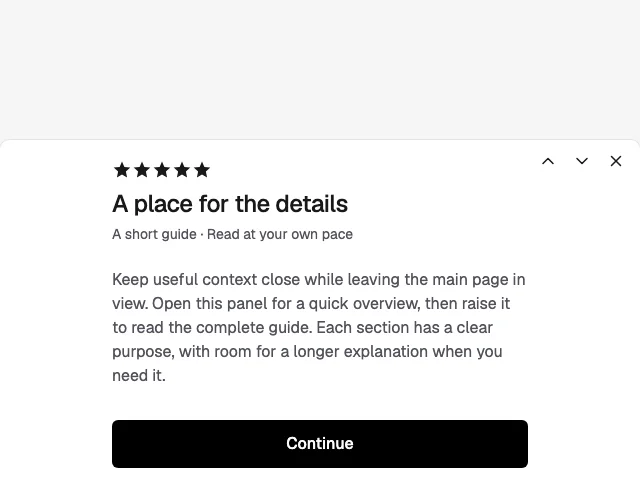
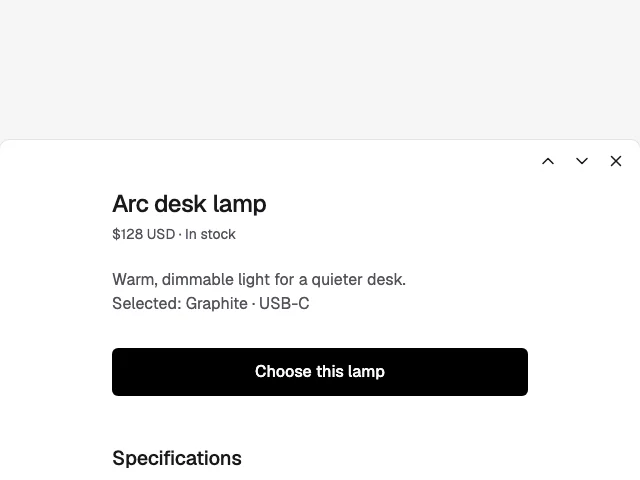
Refine Snap Drawer product quick view and action focus

diff --git a/components/snap-drawer/src/core/index.test.ts b/components/snap-drawer/src/core/index.test.ts
@@ -17,6 +17,18 @@ describe('Snap Drawer settings and geometry', () => {
     expect(markup).toContain('disabled aria-haspopup="dialog"'); expect(markup).toContain('<article'); expect(markup).not.toContain('aria-modal');
     expect(markup).toContain('href="/go?a=1&amp;b=2"');
   });
+  it('keeps optional social content opt-in and the product details readable without enhancement', () => {
+    const host = document.createElement('div'); host.innerHTML = render(resolveSettings({}));
+    expect(host.querySelector('.sd-rating')).toBeNull(); expect(host.querySelector('.sd-quote')).toBeNull();
+    expect(host.querySelector('h2')?.textContent).toBe('Arc desk lamp');
+    expect(host.querySelector('.sd-metadata')?.textContent).toBe('$128 USD · In stock');
+    expect([...host.querySelectorAll('.sd-group h3')].map(node => node.textContent)).toEqual(['Specifications', 'Delivery & returns']);
+    expect(host.querySelector('.sd-action')?.tagName).toBe('BUTTON');
+    host.innerHTML = render(resolveSettings({ showRating: true, rating: 3, showQuote: true, quote: '<Optional note>', quoteAttribution: 'Your attribution' }));
+    expect(host.querySelector('.sd-rating')?.getAttribute('aria-label')).toBe('3 out of 5 stars');
+    expect(host.querySelector('.sd-quote blockquote')?.textContent).toBe('<Optional note>');
+    expect(host.querySelector('.sd-quote figcaption')?.textContent).toBe('Your attribution');
+  });
   it('preserves viewport anchor semantics at desktop, phone and tablet viewport heights', () => {
     for (const height of [1000, 844, 1024, 1112]) {
       const geometry = resolveSnapGeometry(resolveSettings({}), height);
@@ -71,7 +83,10 @@ describe('Snap Drawer lifecycle', () => {
     const scroll = document.querySelector<HTMLElement>('.sd-modal .sd-scroll')!; scroll.scrollTop = 40;
     controller.update({ duration: 0, contentWidth: 560 });
     expect(document.querySelector('.sd-modal .sd-action')).toBe(action); expect(scroll.scrollTop).toBe(40);
-    document.getElementById('one')!.addEventListener('snap-drawer:action', event => event.preventDefault(), { once: true });
+    document.getElementById('one')!.addEventListener('snap-drawer:action', event => {
+      expect((event as CustomEvent).detail.settings).toMatchObject({ title: 'Arc desk lamp', actionLabel: 'Choose this lamp', actionHref: '' });
+      event.preventDefault();
+    }, { once: true });
     action.click(); expect(document.querySelector('dialog')!.open).toBe(true);
     action.click(); expect(document.querySelector('dialog')!.open).toBe(false);
   });
@@ -114,11 +129,28 @@ describe('Snap Drawer lifecycle', () => {
     pointer(scroll, 'pointerdown', 90, 700); scroll.focus(); pointer(window, 'pointermove', 810, 750); pointer(window, 'pointerup', 810, 755);
     expect(modal.open).toBe(false);
   });
+  it.each(['', '#selected'])('keeps a visible middle action stable and keyboard reachable (%s)', actionHref => {
+    const controller = create(); controller.update({ duration: 0, actionHref }); controller.open();
+    const modal = document.querySelector<HTMLDialogElement>('.sd-modal')!, scroll = modal.querySelector<HTMLElement>('.sd-scroll')!;
+    const action = modal.querySelector<HTMLElement>('.sd-action')!, close = modal.querySelector<HTMLButtonElement>('[data-sd-control="close"]')!;
+    const box = (top: number, bottom: number) => ({ top, bottom, left: 20, right: 420, width: 400, height: bottom - top, x: 20, y: top, toJSON() { return {}; } });
+    vi.spyOn(scroll, 'getBoundingClientRect').mockReturnValue(box(676, 1645));
+    for (const node of modal.querySelectorAll<HTMLElement>('.sd-controls button')) vi.spyOn(node, 'getBoundingClientRect').mockReturnValue(box(680, 712));
+    vi.spyOn(action, 'getBoundingClientRect').mockReturnValue(box(884, 932));
+    const reveal = vi.fn(); Object.defineProperty(action, 'scrollIntoView', { configurable: true, value: reveal });
+    controller.snapTo(1); expect(action.tabIndex).toBe(0);
+    close.focus(); modal.dispatchEvent(new KeyboardEvent('keydown', { key: 'Tab', bubbles: true, cancelable: true }));
+    expect(document.activeElement).toBe(action); expect(modal.dataset.snap).toBe('1'); expect(reveal).not.toHaveBeenCalled();
+    // A native pointer may focus the control before an in-flight tab-stop refresh.
+    close.focus(); action.tabIndex = -1; action.focus();
+    expect(modal.dataset.snap).toBe('1'); expect(reveal).not.toHaveBeenCalled();
+    if (!actionHref) { const selected = vi.fn(); document.getElementById('one')!.addEventListener('snap-drawer:action', selected); action.click(); expect(selected).toHaveBeenCalledTimes(1); expect(modal.open).toBe(false); }
+  });
   it('still reveals an offscreen focused child control from a partial snap', () => {
     const controller = create(); controller.open();
     const action = document.querySelector<HTMLButtonElement>('.sd-modal .sd-action')!;
     const reveal = vi.fn(); Object.defineProperty(action, 'scrollIntoView', { configurable: true, value: reveal });
-    action.focus();
+    expect(action.tabIndex).toBe(-1); action.focus();
     expect(document.querySelector<HTMLElement>('.sd-modal')!.dataset.snap).toBe('2'); expect(document.activeElement).toBe(action); expect(reveal).toHaveBeenCalledWith({ block: 'nearest' });
   });
   it('fits the reading viewport to custom highest snaps and clamped coincident positions', () => {

diff --git a/components/snap-drawer/src/core/index.ts b/components/snap-drawer/src/core/index.ts
@@ -251,7 +251,7 @@ export function mount(host: HTMLElement, input: unknown = {}, id?: string): Cont
     closing = false; index = clamp(reachable, 0, geometry.positions.length - 1); controls(true);
     const targetOpacity = settings.overlayMode === 'constant' || index === geometry.positions.length - 1 ? 1 : 0;
     state('settling');
-    const done = () => { state(paused ? 'paused' : 'resting'); emit('snap-change', { index: geometry.reachableToSource[index], reachableIndex: index }); };
+    const done = () => { refreshContentTabStops(); state(paused ? 'paused' : 'resting'); emit('snap-change', { index: geometry.reachableToSource[index], reachableIndex: index }); };
     if (animateMotion) animate(geometry.positions[index], targetOpacity, done);
     else { cancelTransition(false); paint(geometry.positions[index], targetOpacity); done(); }
   }
@@ -271,7 +271,7 @@ export function mount(host: HTMLElement, input: unknown = {}, id?: string): Cont
     controls(); closeButton.focus({ preventScroll: true }); modal.scrollTop = 0; state('opening');
     emit('open-change', { open: true });
     const targetOpacity = settings.overlayMode === 'constant' || index === geometry.positions.length - 1 ? 1 : 0;
-    animate(geometry.positions[index], targetOpacity, () => { state(paused ? 'paused' : 'resting'); });
+    animate(geometry.positions[index], targetOpacity, () => { refreshContentTabStops(); state(paused ? 'paused' : 'resting'); });
   }
   function close() {
     if (!opened || destroyed || closing) return;
@@ -317,9 +317,23 @@ export function mount(host: HTMLElement, input: unknown = {}, id?: string): Cont
       if (target === 'closed') close(); else snap(target);
     } else cancelGesture();
   }
-  function visibleFocusable() {
+  function contentVisible(node: HTMLElement) {
+    const box = node.getBoundingClientRect(), clip = scroll.getBoundingClientRect();
     const top = view.visualViewport?.offsetTop ?? 0, bottom = top + (view.visualViewport?.height ?? view.innerHeight);
-    return [...modal.querySelectorAll<HTMLElement>('button:not(:disabled),a[href],.sd-scroll[tabindex="0"]')].filter(node => { const box = node.getBoundingClientRect(); return node.tabIndex >= 0 && box.height > 0 && box.top >= top && box.bottom <= bottom + 1; });
+    return box.width > 0 && box.height > 0 && box.top >= Math.max(top, clip.top)
+      && box.bottom <= Math.min(bottom, clip.bottom) + 1
+      && box.left >= Math.max(0, clip.left) && box.right <= Math.min(view.innerWidth, clip.right) + 1;
+  }
+  function refreshContentTabStops() {
+    scroll.querySelectorAll<HTMLElement>('a,button').forEach(node => { node.tabIndex = contentVisible(node) ? 0 : -1; });
+  }
+  function visibleFocusable() {
+    refreshContentTabStops();
+    const top = view.visualViewport?.offsetTop ?? 0, bottom = top + (view.visualViewport?.height ?? view.innerHeight);
+    return [...modal.querySelectorAll<HTMLElement>('button:not(:disabled),a[href],.sd-scroll[tabindex="0"]')].filter(node => {
+      const box = node.getBoundingClientRect();
+      return node.tabIndex >= 0 && (scroll.contains(node) ? contentVisible(node) : box.height > 0 && box.top >= top && box.bottom <= bottom + 1);
+    });
   }
   function settle() {
     if (!opened) return;
@@ -354,8 +368,9 @@ export function mount(host: HTMLElement, input: unknown = {}, id?: string): Cont
     on(modal, 'focusin', event => {
       const target = event.target as HTMLElement;
       // Pointer focus on the reading region must not change the gesture's snap or origin.
-      // Reveal offscreen child controls when keyboard or programmatic focus reaches them.
-      if (target !== scroll && scroll.contains(target) && !visibleFocusable().includes(target)) {
+      // Pointer focus can reach a visible control before its tab stop is refreshed.
+      // Reveal only content clipped by the reading viewport, independently of tabindex.
+      if (target !== scroll && scroll.contains(target) && !contentVisible(target)) {
         snap(geometry.positions.length - 1, false); target.scrollIntoView({ block: 'nearest' });
       }
     });
